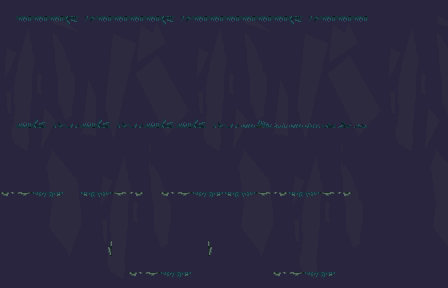
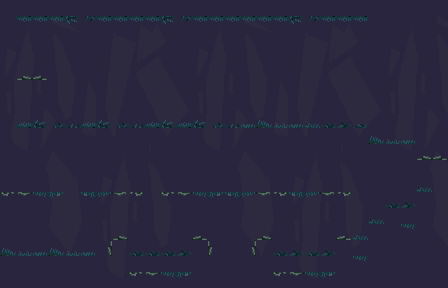
Level 2 ColMap setup

diff --git a/game-01.js b/game-01.js
@@ -21,7 +21,7 @@ const Game = function() {
 
 Game.prototype = { constructor : Game };
 
-Game.World = function(friction = 0.9, gravity = 3) {
+Game.World = function(friction = 0.9, gravity = 2.52) {
 
   this.collider = new Game.World.Collider();// Here's the new collider class.
 
@@ -31,29 +31,30 @@ Game.World = function(friction = 0.9, gravity = 3) {
   this.player   = new Game.World.Player();
 
   this.columns   = 28;
-  this.rows      = 16;
-  //this.rows      = 18;
+  //this.rows      = 16;
+  this.rows      = 18;
   this.tile_size = 16;
 
   /* This map stays the same. It is the graphical map. It only places graphics and
   has nothing to do with collision. */
-  this.map = [-1,-1,-1,-1,-1,-1,-1,-1,-1,-1,-1,-1,-1,-1,-1,-1,-1,-1,-1,-1,-1,-1,-1,-1,-1,-1,-1,-1,
-    -1,-1,-1,-1,-1,-1,-1,-1,-1,-1,-1,-1,-1,-1,-1,-1,-1,-1,-1,-1,-1,-1,-1,-1,-1,-1,-1,-1,
-    -1,-1,-1,-1,-1,-1,-1,-1,-1,-1,-1,-1,-1,-1,-1,-1,-1,-1,-1,-1,-1,-1,-1,-1,-1,-1,-1,-1,
-    -1,-1,-1,-1,-1,-1,-1,-1,-1,-1,-1,-1,-1,-1,-1,-1,-1,-1,-1,-1,-1,-1,-1,-1,-1,-1,-1,-1,
-    -1,-1,-1,-1,-1,-1,-1,-1,-1,-1,-1,-1,-1,-1,-1,-1,-1,-1,-1,-1,-1,-1,-1,-1,-1,-1,-1,-1,
-    -1,-1,-1,-1,-1,-1,-1,-1,-1,-1,-1,-1,-1,-1,-1,-1,-1,-1,-1,-1,-1,-1,-1,-1,-1,-1,5852,5189,
-    -1,-1,-1,-1,-1,-1,-1,-1,-1,-1,-1,-1,-1,-1,-1,-1,-1,-1,-1,-1,-1,-1,-1,-1,-1,5852,5189,5866,
-    -1,-1,-1,-1,-1,-1,-1,-1,-1,-1,-1,-1,-1,-1,-1,-1,-1,-1,-1,-1,-1,-1,-1,-1,5852,5189,5188,5866,
-    -1,-1,-1,-1,-1,-1,-1,-1,-1,-1,-1,-1,-1,-1,-1,-1,-1,-1,-1,-1,-1,-1,-1,5852,5189,5188,5866,5866,
-    -1,-1,-1,-1,-1,-1,-1,-1,-1,-1,-1,-1,-1,-1,-1,-1,-1,-1,-1,-1,-1,-1,6019,5189,5188,5866,5866,5866,
-    -1,-1,-1,-1,-1,-1,-1,-1,-1,-1,-1,-1,-1,-1,-1,-1,-1,-1,-1,-1,-1,-1,6103,5188,5866,5866,5866,5866,
-    -1,-1,-1,-1,-1,-1,-1,-1,-1,-1,-1,-1,-1,-1,-1,-1,-1,-1,-1,-1,-1,-1,-1,6272,6611,6612,6613,6613,
-    -1,-1,-1,-1,-1,-1,-1,-1,-1,-1,-1,-1,-1,-1,-1,-1,-1,-1,-1,-1,-1,-1,-1,-1,-1,-1,-1,-1,
-    -1,-1,-1,-1,-1,-1,-1,-1,-1,-1,-1,-1,-1,-1,-1,-1,-1,-1,-1,-1,-1,-1,-1,-1,-1,-1,-1,-1,
-    2792,2792,2792,2792,2792,2792,2792,2792,2792,2792,2792,2792,2792,2792,2792,2792,2792,2792,2792,2792,2792,2792,2792,2793,2794,2795,2796,2797,
-    2876,2876,2876,2876,2876,2876,2876,2876,2876,2876,2876,2876,2876,2876,2876,2876,2876,2876,2876,2876,2876,2876,2876,2877,2878,2879,2880,2881,];
-
+  this.map = [6618,6619,6620,6621,6610,6611,6612,6613,6614,6615,6616,6617,6618,6619,6620,6621,6610,6611,6612,6613,6614,6615,6616,6617,6618,6619,6620,6621,
+  6698,5248,-1,-1,5249,-1,-1,-1,-1,-1,-1,-1,-1,-1,-1,-1,-1,-1,-1,-1,-1,-1,-1,6970,6611,6612,6613,6614,
+  4998,-1,-1,-1,-1,-1,-1,-1,-1,-1,-1,-1,-1,-1,-1,-1,-1,-1,-1,-1,-1,-1,-1,2518,4268,4269,4268,4269,
+  5082,-1,-1,-1,-1,-1,-1,-1,-1,-1,-1,-1,-1,-1,-1,-1,-1,-1,-1,-1,-1,-1,-1,-1,-1,-1,-1,-1,
+  4998,-1,-1,5183,5184,5185,5186,5187,5188,5189,5190,5191,5192,5193,5191,5192,5193,5193,5185,5186,5093,5094,-1,-1,-1,6023,5939,-1,
+  5082,6970,6933,5079,-1,-1,-1,-1,-1,-1,-1,-1,-1,-1,-1,-1,-1,-1,-1,-1,-1,-1,3847,3512,3513,3512,3513,3512,
+  4998,-1,-1,-1,-1,-1,-1,-1,-1,-1,-1,-1,-1,-1,-1,-1,-1,-1,-1,-1,-1,-1,-1,-1,-1,-1,-1,-1,
+  5082,-1,-1,-1,-1,-1,-1,-1,-1,-1,-1,-1,-1,-1,-1,-1,-1,-1,-1,-1,-1,-1,-1,-1,-1,-1,-1,-1,
+  5182,5183,5184,5185,5186,5187,5188,5189,5190,5191,5192,5193,5193,5185,5186,5187,5188,5189,5190,5191,5192,5193,5193,5780,5780,5781,-1,-1,
+  5266,5267,5268,5269,5270,5271,5272,5273,5274,5275,5276,5277,5277,5269,5270,5271,5272,5273,5274,5275,5276,5277,5277,6192,6108,6024,5782,5783,
+  5277,5276,5275,5274,5273,5272,5271,5270,5269,5268,5267,5277,5276,5275,5274,5273,5272,5271,5270,5269,5268,5267,5266,-1,-1,-1,6199,6933,
+  5193,5192,5191,5190,5189,5188,5187,5186,5185,5184,5183,5193,5192,5191,5190,5189,5188,5187,5186,5185,5184,5183,5182,-1,-1,-1,-1,-1,
+  -1,-1,-1,-1,-1,-1,-1,-1,-1,-1,-1,-1,-1,-1,-1,-1,-1,-1,-1,-1,-1,-1,-1,6191,5111,5111,5855,-1,
+  -1,-1,-1,-1,-1,-1,-1,-1,-1,-1,-1,-1,-1,-1,-1,-1,-1,-1,-1,-1,-1,-1,-1,5111,6108,5940,6933,-1,
+  -1,-1,-1,-1,-1,-1,-1,5783,-1,-1,-1,-1,5783,-1,-1,-1,5783,-1,-1,-1,-1,5783,5111,6192,6276,-1,-1,-1,
+  5103,5104,5105,5106,5109,5783,-1,6275,5780,5781,5782,5783,5855,-1,-1,-1,6275,5780,5781,5782,5783,5855,6275,6276,-1,-1,-1,-1,
+  5188,5189,5190,5191,5867,5867,-1,6970,6192,6108,6024,5940,6933,5772,-1,-1,6970,6192,6108,6024,5940,6933,-1,-1,-1,-1,-1,-1,
+  5272,5273,5274,5275,5275,5952,4828,4829,4828,4829,4828,4829,4828,4829,4828,4829,4828,4829,4828,4829,4828,4829,4828,4829,4828,4829,4828,4829]
   /* These collision values correspond to collision functions in the Collider class.
   00 is nothing. everything else is run through a switch statement and routed to the
   appropriate collision functions. These particular values aren't arbitrary. Their binary
@@ -70,22 +71,24 @@ Game.World = function(friction = 0.9, gravity = 3) {
   any way you want. This is just the way I chose to keep track of which values represent
   which tiles. I haven't tested this representation approach with more advanced shapes. */
 
-  this.collision_map = [0,0,0,0,0,0,0,0,0,0,0,0,0,0,0,0,0,0,0,0,0,0,0,0,0,0,0,0,
-    0,0,0,0,0,0,0,0,0,0,0,0,0,0,0,0,0,0,0,0,0,0,0,0,0,0,0,0,
-    0,0,0,0,0,0,0,0,0,0,0,0,0,0,0,0,0,0,0,0,0,0,0,0,0,0,0,0,
-    0,0,0,0,0,0,0,0,0,0,0,0,0,0,0,0,0,0,0,0,0,0,0,0,0,0,0,0,
-    0,0,0,0,0,0,0,0,0,0,0,0,0,0,0,0,0,0,0,0,0,0,0,0,0,0,0,0,
-    0,0,0,0,0,0,0,0,0,0,0,0,0,0,0,0,0,0,0,0,0,0,0,0,0,0,15,15,
-    0,0,0,0,0,0,0,0,0,0,0,0,0,0,0,0,0,0,0,0,0,0,0,0,0,15,15,15,
-    0,0,0,0,0,0,0,0,0,0,0,0,0,0,0,0,0,0,0,0,0,0,0,0,15,15,15,15,
-    0,0,0,0,0,0,0,0,0,0,0,0,0,0,0,0,0,0,0,0,0,0,0,15,15,15,15,15,
-    0,0,0,0,0,0,0,0,0,0,0,0,0,0,0,0,0,0,0,0,0,0,0,15,15,15,15,15,
-    0,0,0,0,0,0,0,0,0,0,0,0,0,0,0,0,0,0,0,0,0,0,0,15,15,15,15,15,
-    0,0,0,0,0,0,0,0,0,0,0,0,0,0,0,0,0,0,0,0,0,0,0,15,15,15,15,15,
-    0,0,0,0,0,0,0,0,0,0,0,0,0,0,0,0,0,0,0,0,0,0,0,0,0,0,0,0,
-    0,0,0,0,0,0,0,0,0,0,0,0,0,0,0,0,0,0,0,0,0,0,0,0,0,0,0,0,
-    1,1,1,1,1,1,1,1,1,1,1,1,1,1,1,1,1,1,1,1,1,1,1,1,1,1,1,1,
-    1,1,1,1,1,1,1,1,1,1,1,1,1,1,1,1,1,1,1,1,1,1,1,1,1,1,1,1,];
+  this.collision_map = [4,4,4,4,4,4,4,4,4,4,4,4,4,4,4,4,4,4,4,4,4,4,4,4,4,4,4,4,
+    15,0,0,0,0,0,0,0,0,0,0,0,0,0,0,0,0,0,0,0,0,0,0,15,15,15,15,15,
+    15,0,0,0,0,0,0,0,0,0,0,0,0,0,0,0,0,0,0,0,0,0,0,15,15,15,15,15,
+    15,0,0,0,0,0,0,0,0,0,0,0,0,0,0,0,0,0,0,0,0,0,0,0,0,0,0,0,
+    15,0,0,15,15,15,15,15,15,15,15,15,15,15,15,15,15,15,15,15,15,15,0,0,0,0,0,0,
+    15,1,1,15,0,0,0,0,0,0,0,0,0,0,0,0,0,0,0,0,0,0,15,15,15,15,15,15,
+    15,1,1,0,0,0,0,0,0,0,0,0,0,0,0,0,0,0,0,0,0,0,0,0,0,0,0,0,
+    15,0,0,0,0,0,0,0,0,0,0,0,0,0,0,0,0,0,0,0,0,0,0,0,0,0,0,0,
+    15,15,15,15,15,15,15,15,15,15,15,15,15,15,15,15,15,15,15,15,15,15,15,0,0,0,0,0,
+    15,15,15,15,15,15,15,15,15,15,15,15,15,15,15,15,15,15,15,15,15,15,15,15,15,15,0,0,
+    15,15,15,15,15,15,15,15,15,15,15,15,15,15,15,15,15,15,15,15,15,15,15,0,0,0,1,1,
+    15,15,15,15,15,15,15,15,15,15,15,15,15,15,15,15,15,15,15,15,15,15,15,0,0,0,0,0,
+    0,0,0,0,0,0,0,0,0,0,0,0,0,0,0,0,0,0,0,0,0,0,0,0,0,0,15,0,
+    0,0,0,0,0,0,0,0,0,0,0,0,0,0,0,0,0,0,0,0,0,0,0,0,15,15,15,0,
+    0,0,0,0,0,0,0,0,0,0,0,0,0,0,0,0,0,0,0,0,0,0,0,15,15,0,0,0,
+    0,0,0,0,0,0,0,15,0,0,0,0,15,0,0,0,15,0,0,0,0,15,15,15,0,0,0,0,
+    1,1,1,1,1,15,0,15,1,1,1,1,15,0,0,0,15,1,1,1,1,15,0,0,0,0,0,0,
+    1,1,1,1,1,1,-1,-1,-1,-1,-1,-1,-1,-1,-1,-1,-1,-1,-1,-1,-1,-1,-1,-1,-1,-1,-1,-1];
 
   this.height   = this.tile_size * this.rows;
   this.width    = this.tile_size * this.columns;
@@ -313,7 +316,7 @@ Game.World.Object.prototype = {
 
 Game.World.Player = function(x, y) {
 
-  Game.World.Object.call(this, 100, 100, 12, 12);
+  Game.World.Object.call(this, 100, 200, 12, 12);
 
   this.color1     = "#404040";
   this.color2     = "#f0f0f0";

diff --git a/main-01.js b/main-01.js
@@ -66,14 +66,14 @@ window.addEventListener("load", function(event) {
   
   
 
-  display.tile_sheet.image.src = "./maps/final_maps/level1/level1tiles.png";
-  display.tile_sheet.backgroundImage.src = "./maps/final_maps/level1/level1bg2.png"
+  //display.tile_sheet.image.src = "./maps/final_maps/level1/level1tiles.png";
+  //display.tile_sheet.backgroundImage.src = "./maps/final_maps/level1/level1bg2.png"
   
   //display.tile_sheet.image.src = "./maps/final_maps/binning/bin_tiles.png";
   //display.tile_sheet.backgroundImage.src = "./maps/final_maps/binning/bin_bg.png"
 
-  // display.tile_sheet.image.src = "./maps/final_maps/level2/level2tiles.png";
-  // display.tile_sheet.backgroundImage.src = "./maps/final_maps/level2/level2bg.png"
+  display.tile_sheet.image.src = "./maps/final_maps/level2/level2tiles.png";
+  display.tile_sheet.backgroundImage.src = "./maps/final_maps/level2/level2bg.png"
 
   //display.tile_sheet.image.src = "./maps/final_maps/level3/level3tiles.png";
   //display.tile_sheet.backgroundImage.src = "./maps/final_maps/level3/level3bg.png"

diff --git a/display-01.js b/display-01.js
@@ -11,8 +11,8 @@ const Display = function(canvas) {
   this.buffer  = document.createElement("canvas").getContext("2d"),
   this.context = canvas.getContext("2d");
 
-  this.tile_sheet = new Display.TileSheet(16, 8);
-  //this.tile_sheet = new Display.TileSheet(16, 84);
+  //this.tile_sheet = new Display.TileSheet(16, 8);
+  this.tile_sheet = new Display.TileSheet(16, 84);
 
   /* This function draws the map to the buffer. */
   this.drawMap = function(map, columns) {
